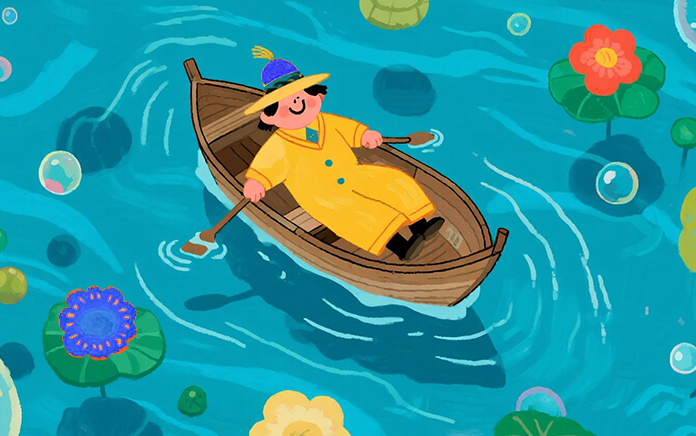
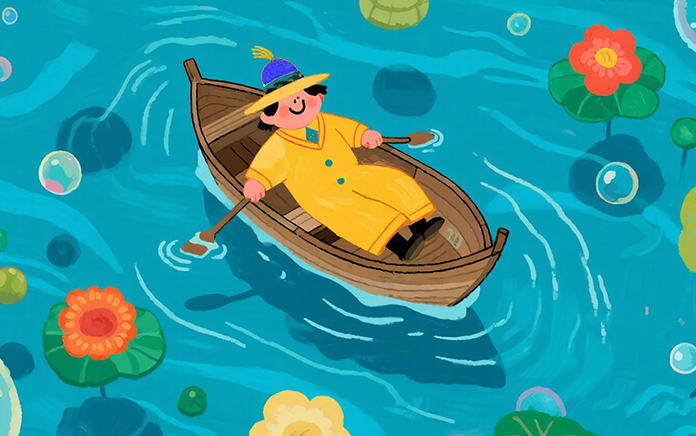
找茬资源577/578更新 & 麻将配置更新 & 猜谜游戏机构用户显示逻辑调整

Changed region(s): [[0.0603, 0.656, 0.2112, 0.8349]]

diff --git a/assets/guessingGame/script/GuessingGameScene.ts b/assets/guessingGame/script/GuessingGameScene.ts
@@ -11,6 +11,7 @@ import { SkewersManager } from "db://assets/resources/scripts/Game/Task/Skewers/
 import { SkewersGameType } from "db://assets/resources/scripts/Game/Task/Skewers/SkewersGameData";
 import { AudioManager } from "db://assets/resources/scripts/Core/Manager/Audio/AudioManager";
 import { DebugLog } from "db://assets/resources/scripts/Core/Util/DebugLog";
+import { PersonalCenterManager } from "db://assets/resources/scripts/Game/PersonalCenterManager/PersonalCenterManager";
 // import { AlertManager, AlertData } from '../../resources/scripts/Core/Manager/Alert/AlertManager';
 
 const { ccclass, property } = _decorator;
@@ -89,10 +90,60 @@ export class GuessingGameScene extends BaseScene<IBaseGameChild> {
     // 添加状态标记，用于跟踪是否已经进入答题阶段
     private _isInAnswerPhase: boolean = false;
     private _hasClickedStartBtn: boolean = false; // 添加是否已点击开始按钮的状态
+    
+    // 添加阶段标记，用于机构用户的显示控制
+    private _currentPhase: 'listening' | 'answering' | 'result' = 'listening'; // 当前阶段：听题、答题、结算
 
     protected bundleName: string = 'guessingGame';
 
     private bgmClip: AudioClip;
+
+    /**
+     * 判断是否是机构用户
+     * @returns 是否是机构用户
+     */
+    private isOrgUser(): boolean {
+        const userInfoData = PersonalCenterManager.getInstance().userInfoData;
+        return userInfoData ? userInfoData.is_org_user : false;
+    }
+
+    /**
+     * 根据机构用户状态和当前阶段控制questionLabel的显示
+     * 注意：questionLabel 恢复原来的逻辑，不受机构用户影响
+     */
+    private updateQuestionLabelVisibility(): void {
+        if (!this.questionLabel) return;
+        
+        // questionLabel 恢复原来的逻辑，始终显示
+        this.questionLabel.node.active = true;
+    }
+
+    /**
+     * 根据机构用户状态和当前阶段控制optionsNode的显示
+     */
+    private updateOptionsNodeVisibility(): void {
+        if (!this.optionsNode) return;
+        
+        if (this.isOrgUser()) {
+            // 机构用户：听题阶段隐藏，答题阶段显示，结算阶段隐藏
+            const shouldShow = this._currentPhase === 'answering';
+            this.optionsNode.active = shouldShow;
+        } else {
+            // 普通用户：保持原有逻辑
+            this.optionsNode.active = true;
+        }
+    }
+
+    /**
+     * 设置当前阶段并更新显示状态
+     * @param phase 当前阶段
+     */
+    private setCurrentPhase(phase: 'listening' | 'answering' | 'result'): void {
+        this._currentPhase = phase;
+        // 只更新 optionsNode 的显示状态，questionLabel 保持原有逻辑
+        this.updateOptionsNodeVisibility();
+        DebugLog.instance.log(`[GuessingGameScene] 阶段切换为: ${phase}, 机构用户: ${this.isOrgUser()}`);
+    }
 
     /**
      * 处理文本中的标点符号，智能处理逗号换行
@@ -265,6 +316,8 @@ export class GuessingGameScene extends BaseScene<IBaseGameChild> {
             }
         }
 
+        // 设置听题阶段
+        this.setCurrentPhase('listening');
 
         // this.questionNode.active = true;
         const question: GuessingQuestion = data.question;
@@ -439,7 +492,10 @@ export class GuessingGameScene extends BaseScene<IBaseGameChild> {
         const result: boolean = ans && this.currentQuestion.answer == ans;
         this.setAnswerOptionsColor(ans);
 
-        // 答题完成后，显示问题标签
+        // 设置结算阶段
+        this.setCurrentPhase('result');
+
+        // 答题完成后，显示问题标签（恢复原来的逻辑）
         if (this.questionLabel) {
             this.questionLabel.node.active = true;
         }
@@ -653,10 +709,8 @@ export class GuessingGameScene extends BaseScene<IBaseGameChild> {
         this._clickStart = false;
         this._hasClickedStartBtn = false; // 重置点击开始按钮的状态
 
-        // 重置时显示问题标签
-        if (this.questionLabel) {
-            this.questionLabel.node.active = true;
-        }
+        // 设置听题阶段
+        this.setCurrentPhase('listening');
 
         // this.timerRT.node.active = false;
         // this.timerStartGame.node.active = false;
@@ -712,7 +766,10 @@ export class GuessingGameScene extends BaseScene<IBaseGameChild> {
         // 设置已点击开始按钮的状态
         this._hasClickedStartBtn = true;
 
-        // 点击开始按钮后隐藏问题标签
+        // 设置答题阶段
+        this.setCurrentPhase('answering');
+
+        // 点击开始按钮后隐藏问题标签（恢复原来的逻辑）
         if (this.questionLabel) {
             this.questionLabel.node.active = false;
         }
@@ -749,6 +806,10 @@ export class GuessingGameScene extends BaseScene<IBaseGameChild> {
 
     public onClickShowAnswer() {
         super.onClickShowAnswer();
+        
+        // 设置结算阶段
+        this.setCurrentPhase('result');
+        
         this.analysisNode.active = true;
         this.analysisLabel.string = this.currentQuestion.analysis;
         this.setCorrectOptionColor();

diff --git a/assets/finding/script/Moudle/Game/GameConfig.ts b/assets/finding/script/Moudle/Game/GameConfig.ts
@@ -335,8 +335,8 @@ export default class GameConfig {
         ['level574', '309,256,91,68|5,9,105,229|434,384,166,45|422,237,91,80|509,91,133,94'],
         ['level575', '51,174,98,151|157,23,85,192|337,189,123,78|611,6,81,98|474,89,99,93'],
         ['level576', '250,334,70,62|580,301,103,89|259,46,84,73|548,180,86,60|406,11,107,147'],
-        ['level577', '506,159,136,91|346,91,78,118|149,134,158,77|11,374,116,59|47,33,280,75'],
-        ['level578', '428,62,90,73|234,37,95,75|293,166,116,61|34,263,118,106|545,281,123,118'],
+        ['level577', "143,132,174,79|512,164,118,64|35,385,56,46|240,254,53,91|76,47,275,44"],
+        ['level578', "28,2,94,62|451,72,54,47|253,55,52,39|291,156,69,45|567,308,72,68"],
         ['level579', '2,18,99,96|88,125,98,113|364,311,97,93|562,194,120,151|366,13,97,97'],
         ['level580', '601,304,77,63|151,5,180,73|313,207,102,73|166,300,143,123|26,184,0,0|89,280,0,0|5,180,97,100'],
         ['level581', '77,205,104,130|386,186,86,75|435,342,131,78|127,34,130,81|495,157,90,70'],
@@ -504,6 +504,8 @@ export default class GameConfig {
     //根据关卡取背景图
     public static level_bg = [31, 32, 33, 34, 35, 36, 37, 38, 39, 40, 41, 42, 43, 44, 45, 46, 47, 1, 2, 3, 4, 5, 6, 7, 8, 9, 10, 11, 12, 13, 14, 15, 16, 17, 18, 19, 20, 6, 1, 18, 21, 22, 23, 24, 25, 26, 27, 28, 29, 30,]
 
+
+     
     // 关卡总数
     public static level_order = [1, 2, 3, 4, 5, 6, 7, 8, 9, 10, 11, 12, 13, 14, 15, 16, 17, 18, 19, 20, 21, 22, 23, 24, 25, 26, 27, 28, 29, 30, 31, 32, 33, 34, 35, 36, 37, 38, 39, 40, 41, 42, 43, 44, 45, 46, 47, 48, 49, 50, 51, 52, 53, 54, 55, 56, 57,
         58, 59, 60, 61, 62, 63, 64, 65, 66, 67, 68, 69, 70, 71, 72, 73, 74, 75, 76, 77, 78, 79, 80, 81, 82, 83, 84, 85, 86, 87, 88, 89, 90, 91, 92, 93, 94, 95, 96, 97, 98, 99, 100, 101, 102, 103, 104, 105, 106, 107, 108, 109, 110, 111, 112, 113, 114, 115, 116,
